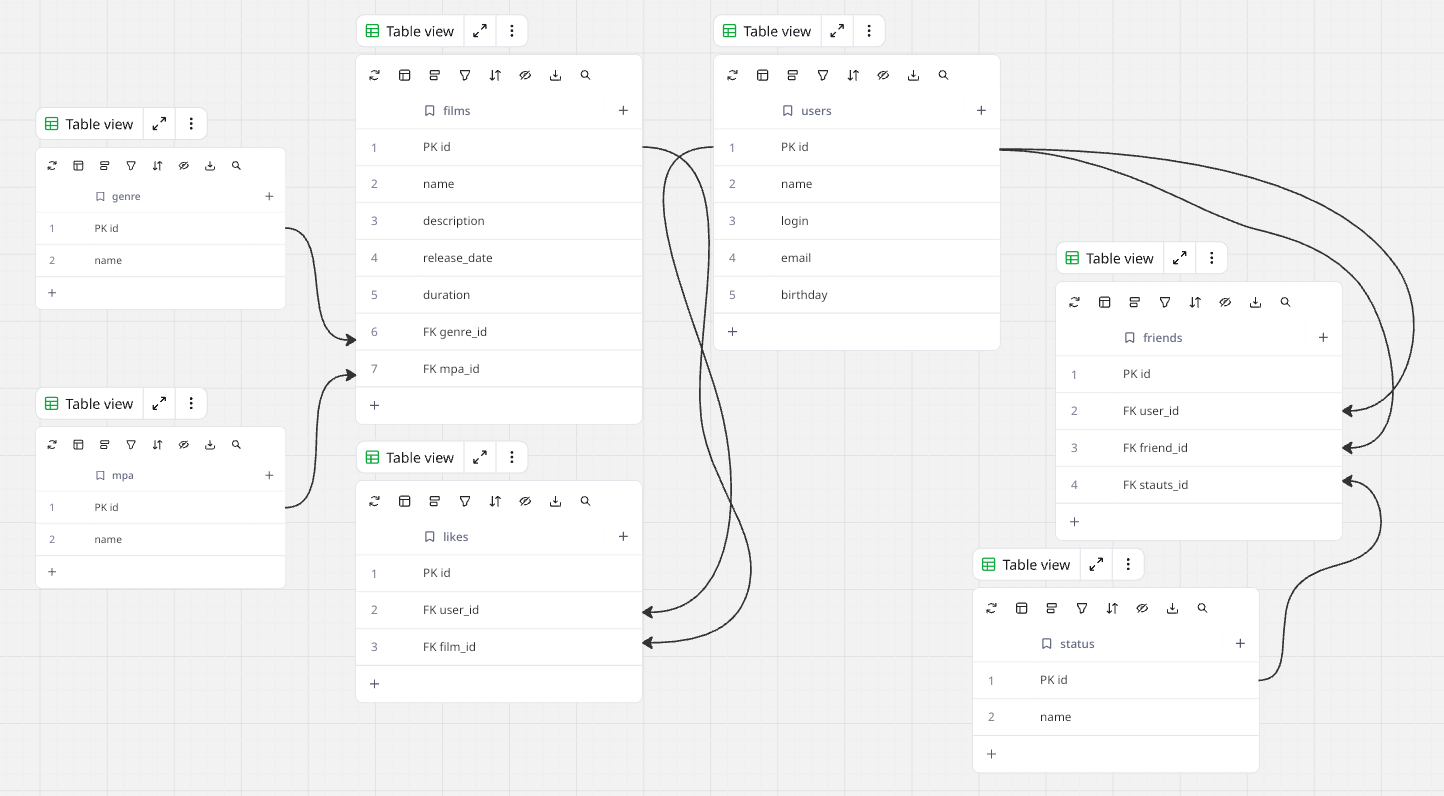
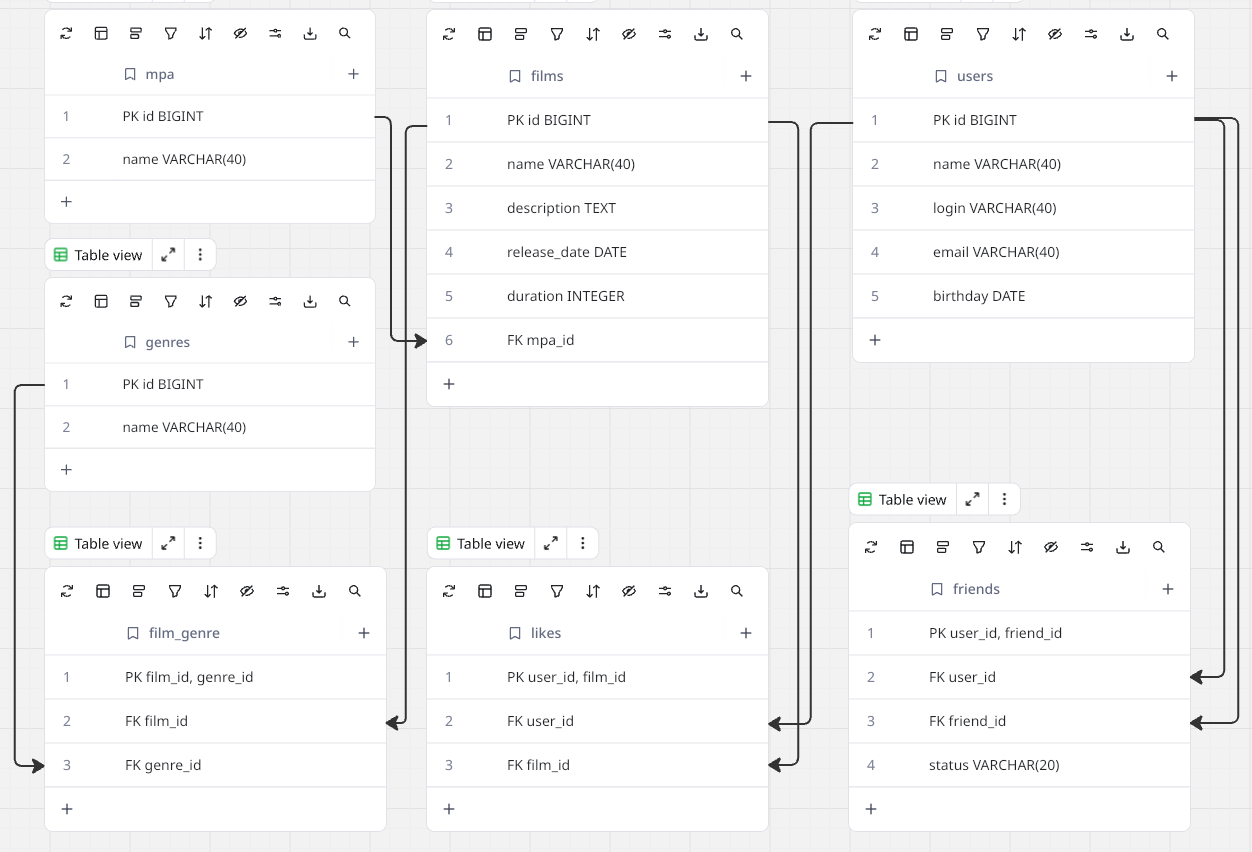
database schema and query's!

diff --git a/src/main/java/ru/yandex/practicum/filmorate/model/Film.java b/src/main/java/ru/yandex/practicum/filmorate/model/Film.java
@@ -21,5 +21,7 @@ public class Film {
     String description;
     LocalDate releaseDate;
     Integer duration;
+    Genre genre;
+    MPA mpa;
     final Set<Long> likes = new HashSet<>();
 }

diff --git a/src/main/java/ru/yandex/practicum/filmorate/model/Genre.java b/src/main/java/ru/yandex/practicum/filmorate/model/Genre.java
@@ -1,0 +1,10 @@
+package ru.yandex.practicum.filmorate.model;
+
+public enum Genre {
+    COMEDY,
+    ACTION,
+    CARTOON,
+    THRILLER,
+    MELODRAMA,
+    FANTASTIC
+}

diff --git a/src/main/java/ru/yandex/practicum/filmorate/model/MPA.java b/src/main/java/ru/yandex/practicum/filmorate/model/MPA.java
@@ -1,0 +1,9 @@
+package ru.yandex.practicum.filmorate.model;
+
+public enum MPA {
+    G,
+    PG,
+    PG_13,
+    R,
+    NC_17
+}

diff --git a/src/main/java/ru/yandex/practicum/filmorate/model/FriendshipStatus.java b/src/main/java/ru/yandex/practicum/filmorate/model/FriendshipStatus.java
@@ -1,0 +1,6 @@
+package ru.yandex.practicum.filmorate.model;
+
+public enum FriendshipStatus {
+    CONFIRMED,
+    PENDING
+}
